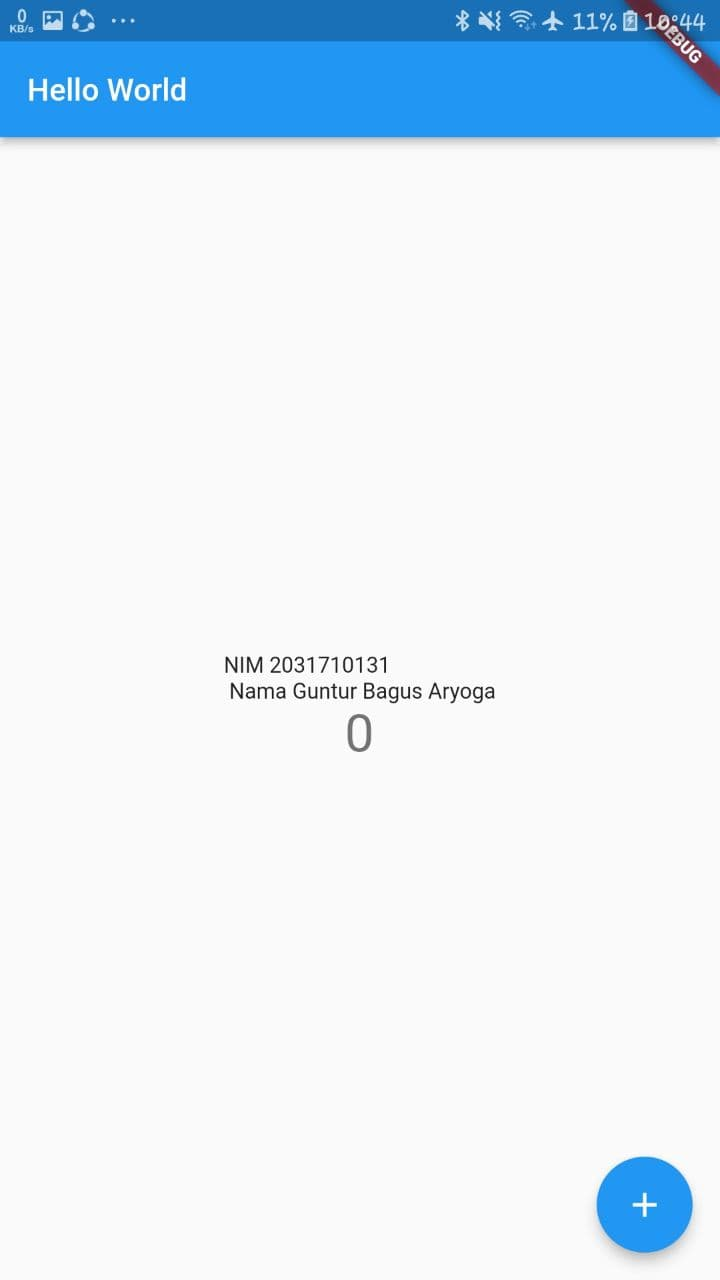
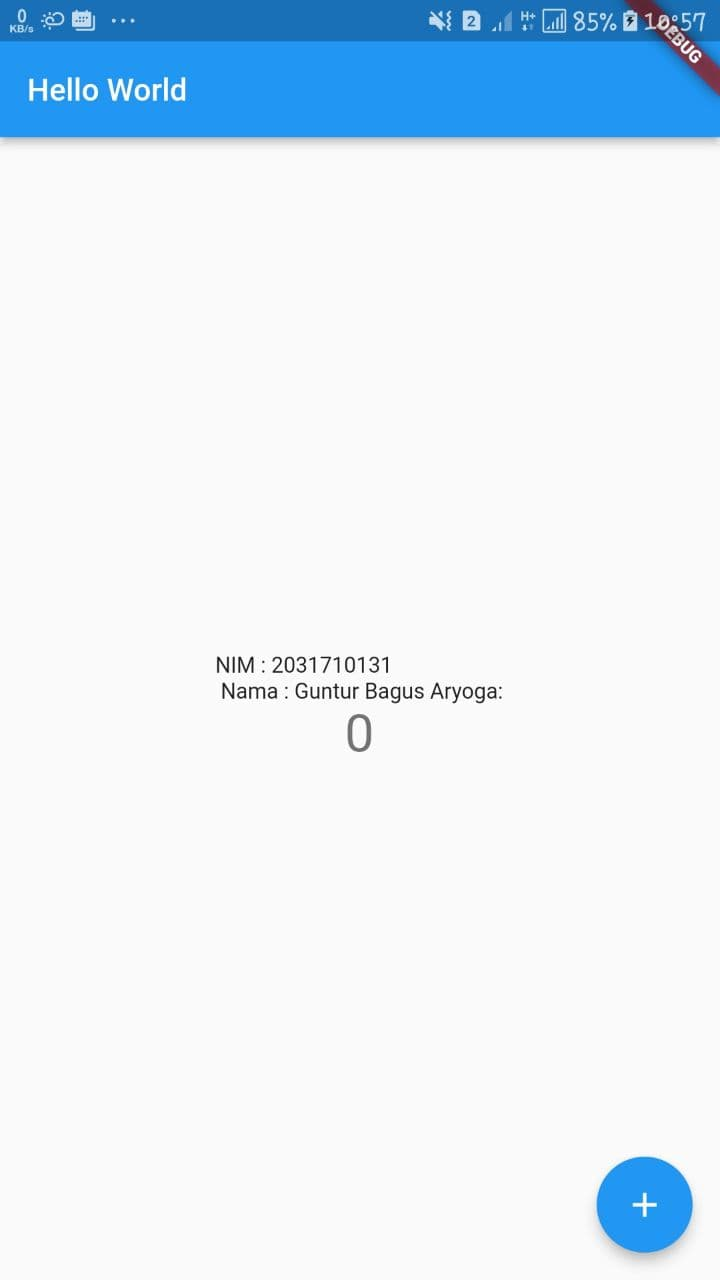
perbaikan error

diff --git a/lib/main.dart b/lib/main.dart
@@ -96,7 +96,7 @@ class _MyHomePageState extends State<MyHomePage> {
           mainAxisAlignment: MainAxisAlignment.center,
           children: <Widget>[
             const Text(
-              'NIM : 2031710131 n/ Nama : Guntur Bagus Aryoga:',
+              'NIM : 2031710131 \n Nama : Guntur Bagus Aryoga:',
             ),
             Text(
               '$_counter',
